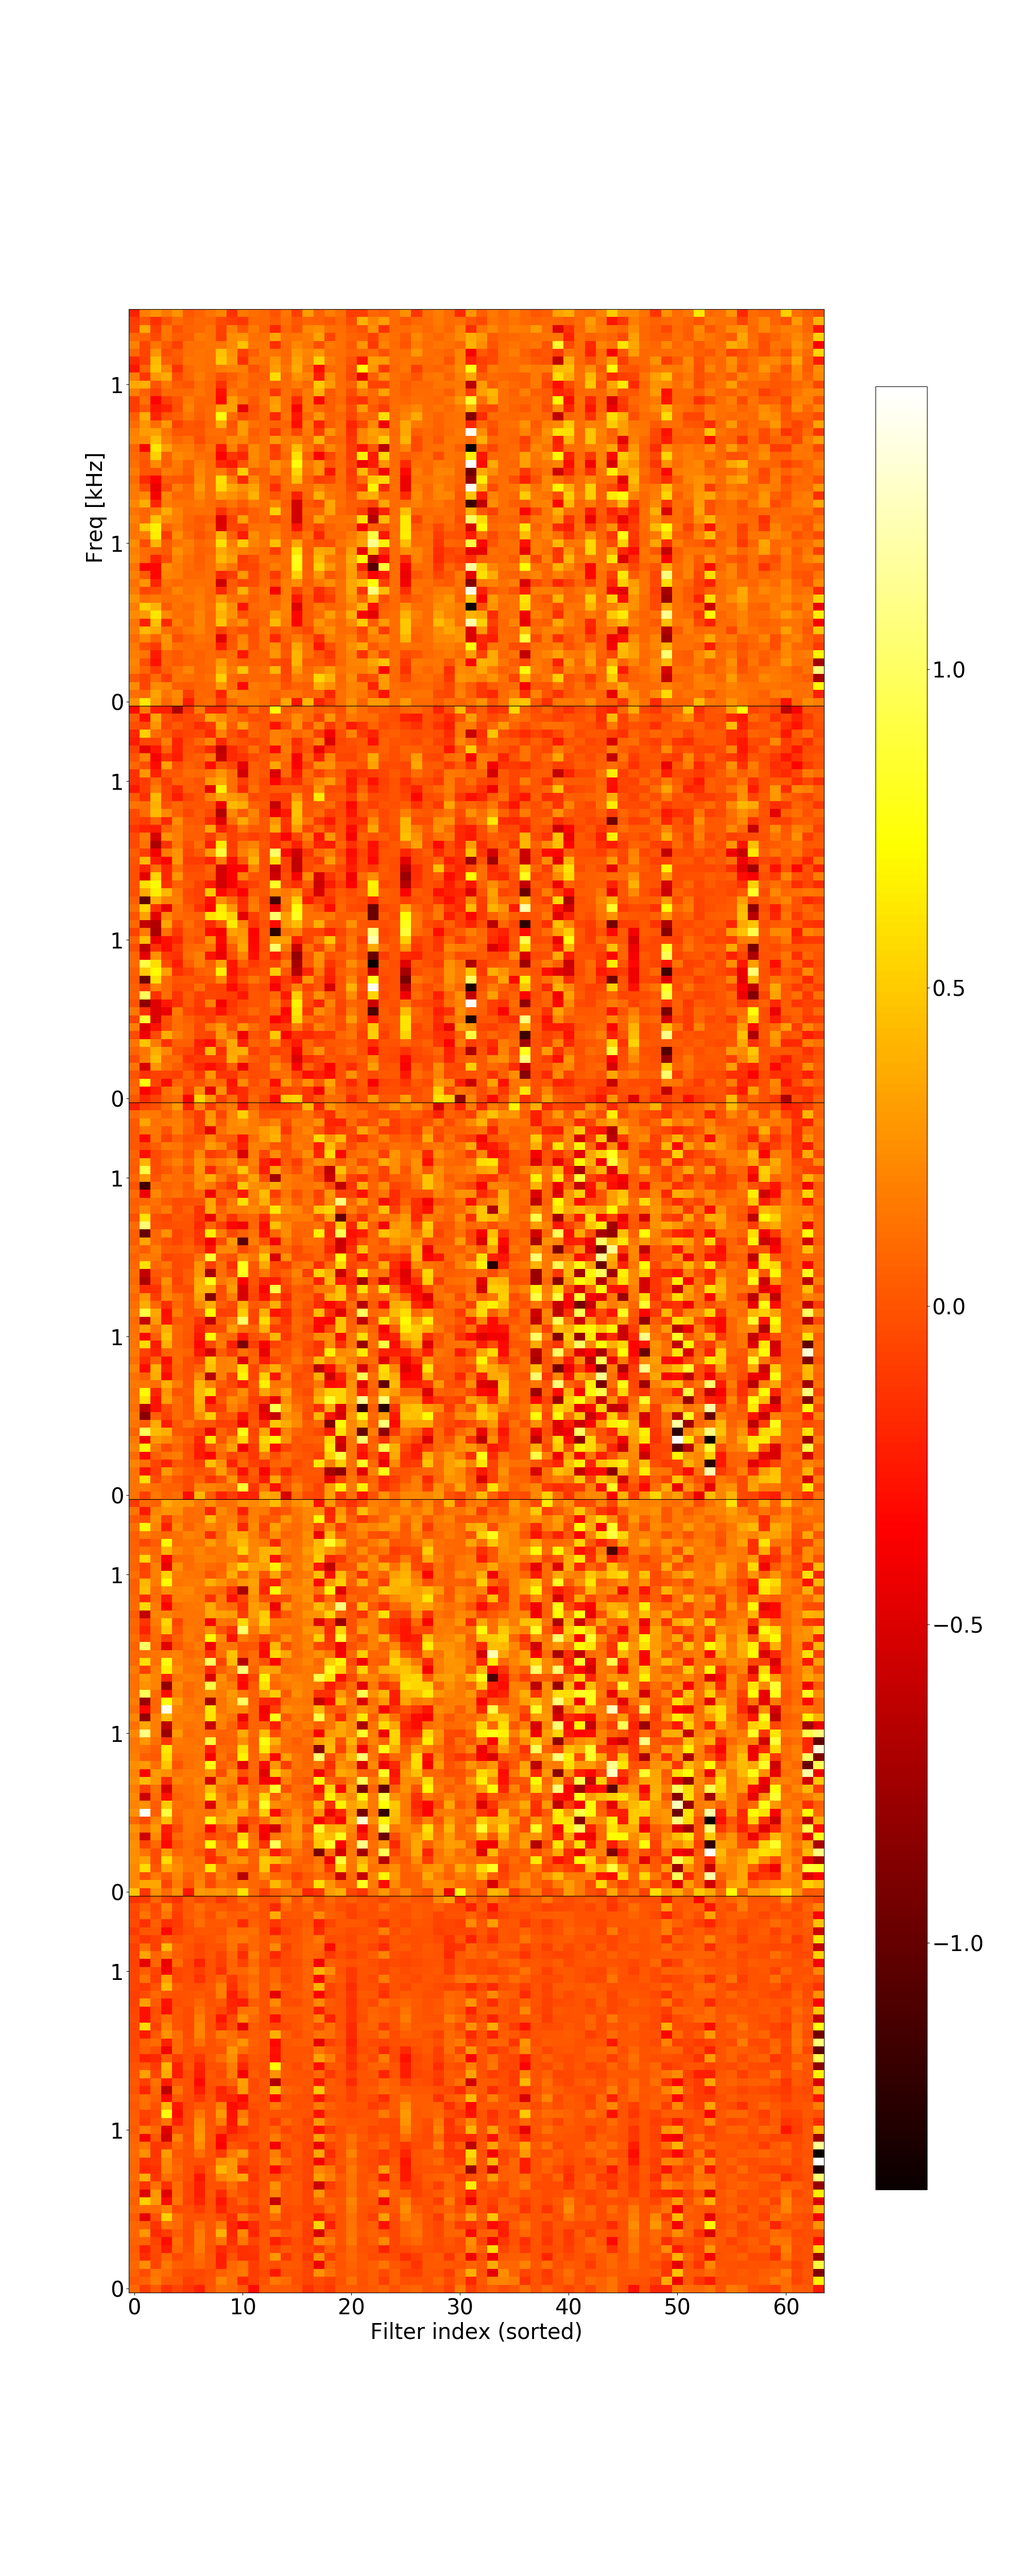
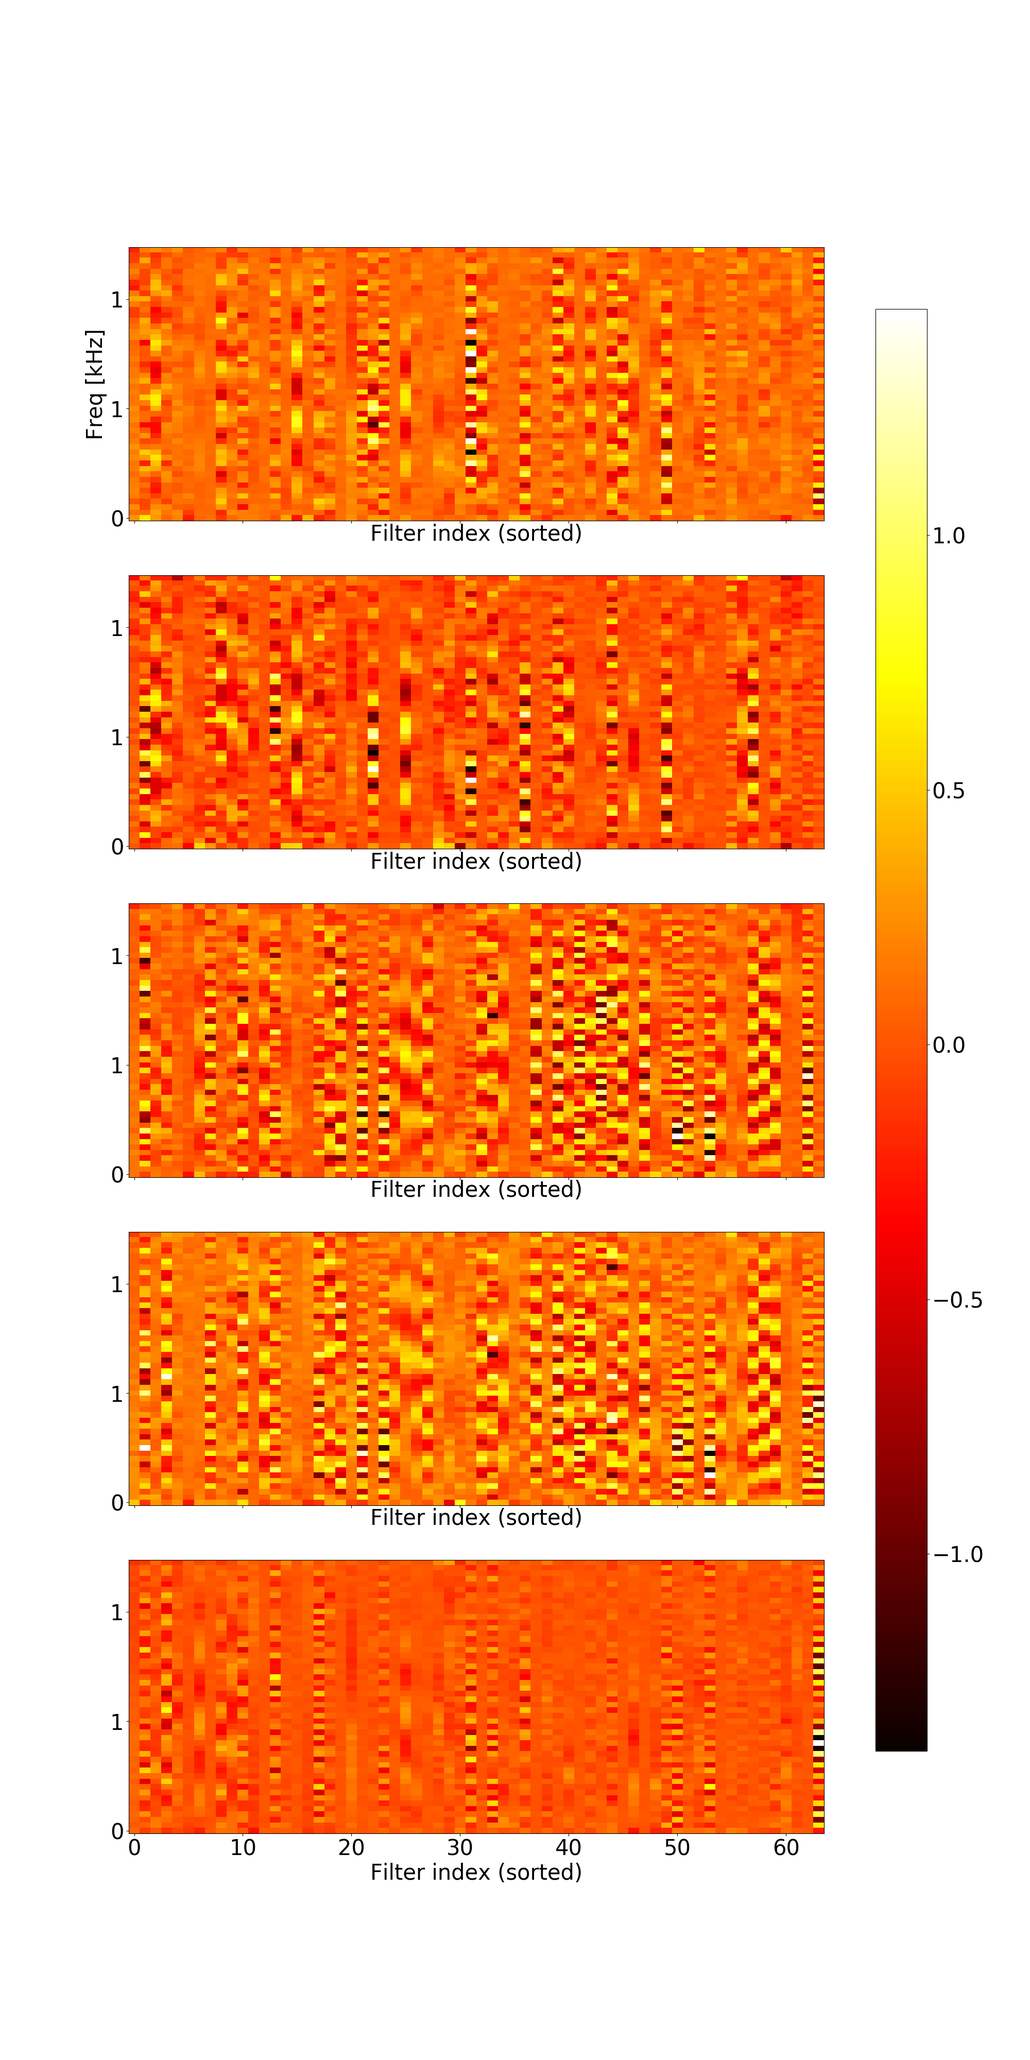
up

Changed region(s): [[0.062, 0.125, 0.806, 0.9062]]

diff --git a/returnnTfNetworkLayerPlotter.py b/returnnTfNetworkLayerPlotter.py
@@ -519,7 +519,7 @@ class Plotter(object):
             mode = 'sorted_by_channel_' + str(self.layer.channelUsedForPermutation)
         elif(mode == 'unsorted'):
             plotableWeights = self.layer.getPlotable2DWeights(doAnalytical)
-        plt.locator_params(axis='y', nbins=3)
+        plt.locator_params(axis='y', nbins=4)
         for epochRangeIdx, plotableWeightPerEpoch in enumerate(plotableWeights):
             for dimInputIdx, plotableWeightPerDim in enumerate(plotableWeightPerEpoch): 
                 im = axs[dimInputIdx][epochRangeIdx].imshow(plotableWeightPerDim, origin='lower', aspect='auto', cmap=self.plottingConfigs['cmap'])
